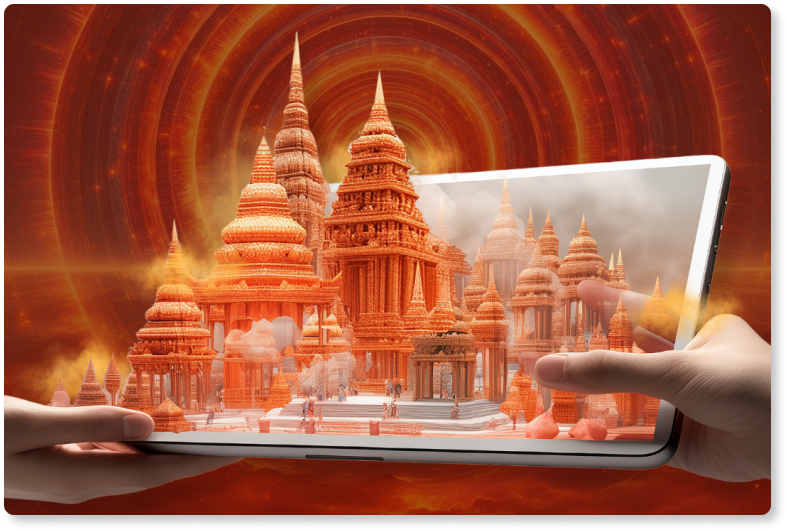
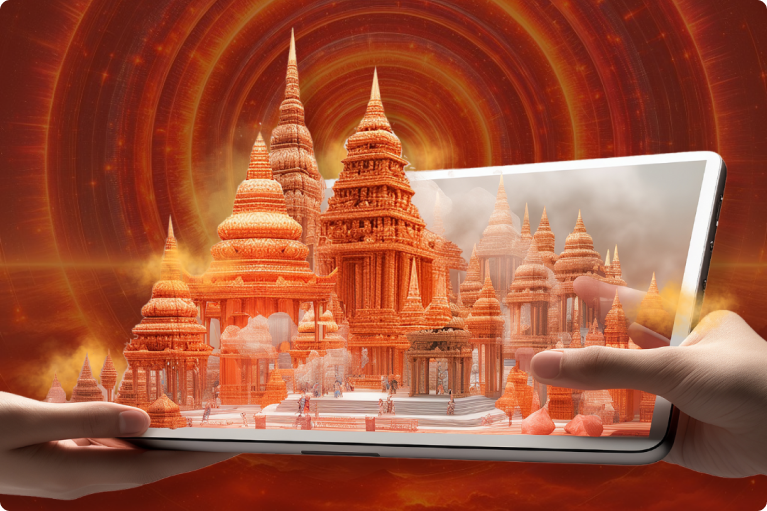
replaced service image and alignmnet fixed in oil india and proviti

diff --git a/src/pages/Home/Presence/Presence.jsx b/src/pages/Home/Presence/Presence.jsx
@@ -26,7 +26,7 @@ function Presence() {
                     <img
                       src={point.image}
                       alt="Your Image"
-                      className="w-full h-auto shadow-md shadow-gray-500 rounded-lg"
+                      className="w-full max-h-80 shadow-md shadow-gray-500 rounded-lg object-cover"
                     />
 
                     <div class="absolute inset-0 flex items-center justify-center opacity-0 group-hover:opacity-100 transition duration-300 ease-in-out bg-gradient-to-b from-[#276DFF] to-[#060434] rounded-lg">
